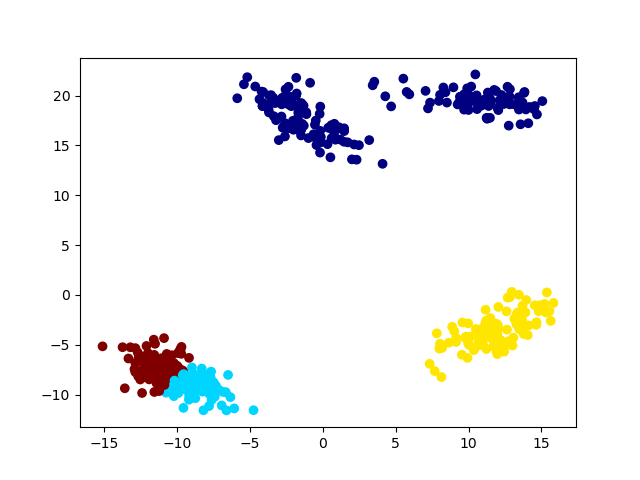
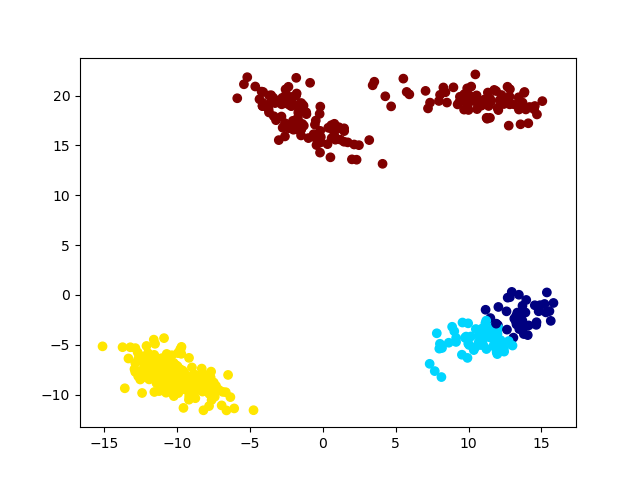
Stephen completes hw on Feb2.

diff --git a/code/main.py b/code/main.py
@@ -3,6 +3,7 @@ from random_tree import RandomForest, RandomTree
 from naive_bayes import NaiveBayes
 from knn import KNN
 from kmeans import Kmeans
+from kmedians import Kmedians
 from decision_tree import DecisionTree
 from decision_stump import DecisionStumpInfoGain
 from utils import load_dataset, plot_classifier, handle, run, main
@@ -190,8 +191,8 @@ def q3():
     evaluate_model(RandomTree(max_depth=np.inf))
 
     print("Decision tree info gain")
-    evaluate_model(DecisionTree(max_depth=np.inf,
-                   stump_class=DecisionStumpInfoGain))
+    evaluate_model(
+        DecisionTree(max_depth=np.inf, stump_class=DecisionStumpInfoGain))
 
     print("Random forest info gain")
     evaluate_model(RandomForest(num_trees=50, max_depth=np.inf))
@@ -258,6 +259,72 @@ def q4_2():
 def q4_3():
     X = load_dataset("clusterData2.pkl")["X"]
     """YOUR CODE HERE FOR Q4.3"""
+    model = Kmeans(k=4)
+    low_err = np.inf
+    best_model = None
+    for i in range(50):
+        model.fit(X)
+        if (model.err < low_err):
+            low_err = model.err
+            best_model = model
+    y = best_model.predict(X)
+    plt.scatter(X[:, 0], X[:, 1], c=y, cmap="jet")
+
+    fname = Path("..", "figs", "kmeans_4_3_lowest.png")
+    plt.savefig(fname)
+    print(f"Figure saved as {fname}")
+
+    ks = list(range(1, 11))
+    errs = np.zeros(10)
+    num = 0
+    for k in ks:
+        model = Kmeans(k)
+        low_err = np.inf
+        for i in range(50):
+            model.fit(X)
+            if (model.err < low_err):
+                low_err = model.err
+        errs[num] = low_err
+        num = num + 1
+    plt.figure()
+    plt.plot(ks, errs)
+    fname = Path("..", "figs", "kmeans_4_3_elbow.png")
+    plt.savefig(fname)
+    print(f"Figure saved as {fname}")
+
+    ks = list(range(1, 11))
+    errs = np.zeros(10)
+    num = 0
+    for k in ks:
+        model = Kmeans(k)
+        low_err = np.inf
+        for i in range(50):
+            model.fit(X)
+            if (model.errL1 < low_err):
+                low_err = model.errL1
+        errs[num] = low_err
+        num = num + 1
+    plt.figure()
+    plt.plot(ks, errs)
+    fname = Path("..", "figs", "kmeans_4_3_elbowL1.png")
+    plt.savefig(fname)
+    print(f"Figure saved as {fname}")
+
+    plt.figure()
+    model = Kmedians(k=4)
+    low_err = np.inf
+    best_model = None
+    for i in range(50):
+        model.fit(X)
+        if (model.errL1 < low_err):
+            low_err = model.errL1
+            best_model = model
+    y = best_model.predict(X)
+    plt.scatter(X[:, 0], X[:, 1], c=y, cmap="jet")
+
+    fname = Path("..", "figs", "kmedians_4_3_lowest.png")
+    plt.savefig(fname)
+    print(f"Figure saved as {fname}")
 
 
 if __name__ == "__main__":

diff --git a/code/kmedians.py b/code/kmedians.py
@@ -2,7 +2,7 @@ import numpy as np
 from utils import euclidean_dist_squared
 
 
-class Kmeans:
+class Kmedians:
     means = None
 
     def __init__(self, k):
@@ -18,11 +18,18 @@ class Kmeans:
             means[kk] = X[i]
 
         while True:
-            # iterations of k-means
+            # iterations of k-medians
             y_old = y
 
-            # Compute euclidean distance to each mean
-            distance_matrix = euclidean_dist_squared(X, means)
+            # Compute L1 norm to each mean
+            n, d = X.shape
+            T, d = means.shape
+            distance_matrix = np.zeros([n, T])
+            for i in range(n):
+                for j in range(T):
+                    distance_matrix[i, j] = abs(X[i, 0] -
+                                                means[j, 0]) + abs(X[i, 1] -
+                                                                   means[j, 1])
             distance_matrix[np.isnan(distance_matrix)] = np.inf
             y = np.argmin(distance_matrix, axis=1)
 
@@ -31,7 +38,7 @@ class Kmeans:
                 if np.any(
                         y == kk
                 ):  # don't update the mean if no examples are assigned to it (one of several possible approaches)
-                    means[kk] = X[y == kk].mean(axis=0)
+                    means[kk] = np.median(X[y == kk], axis=0)
 
             changes = np.sum(y != y_old)
             # print('Running K-means, changes in cluster assignment = {}'.format(changes))
@@ -46,7 +53,14 @@ class Kmeans:
 
     def predict(self, X_hat):
         means = self.means
-        distance_matrix = euclidean_dist_squared(X_hat, means)
+        n, d = X_hat.shape
+        T, d = means.shape
+        distance_matrix = np.zeros([n, T])
+        for i in range(n):
+            for j in range(T):
+                distance_matrix[i, j] = abs(X_hat[i, 0] -
+                                            means[j, 0]) + abs(X_hat[i, 1] -
+                                                               means[j, 1])
         distance_matrix[np.isnan(distance_matrix)] = np.inf
         return np.argmin(distance_matrix, axis=1)
 
